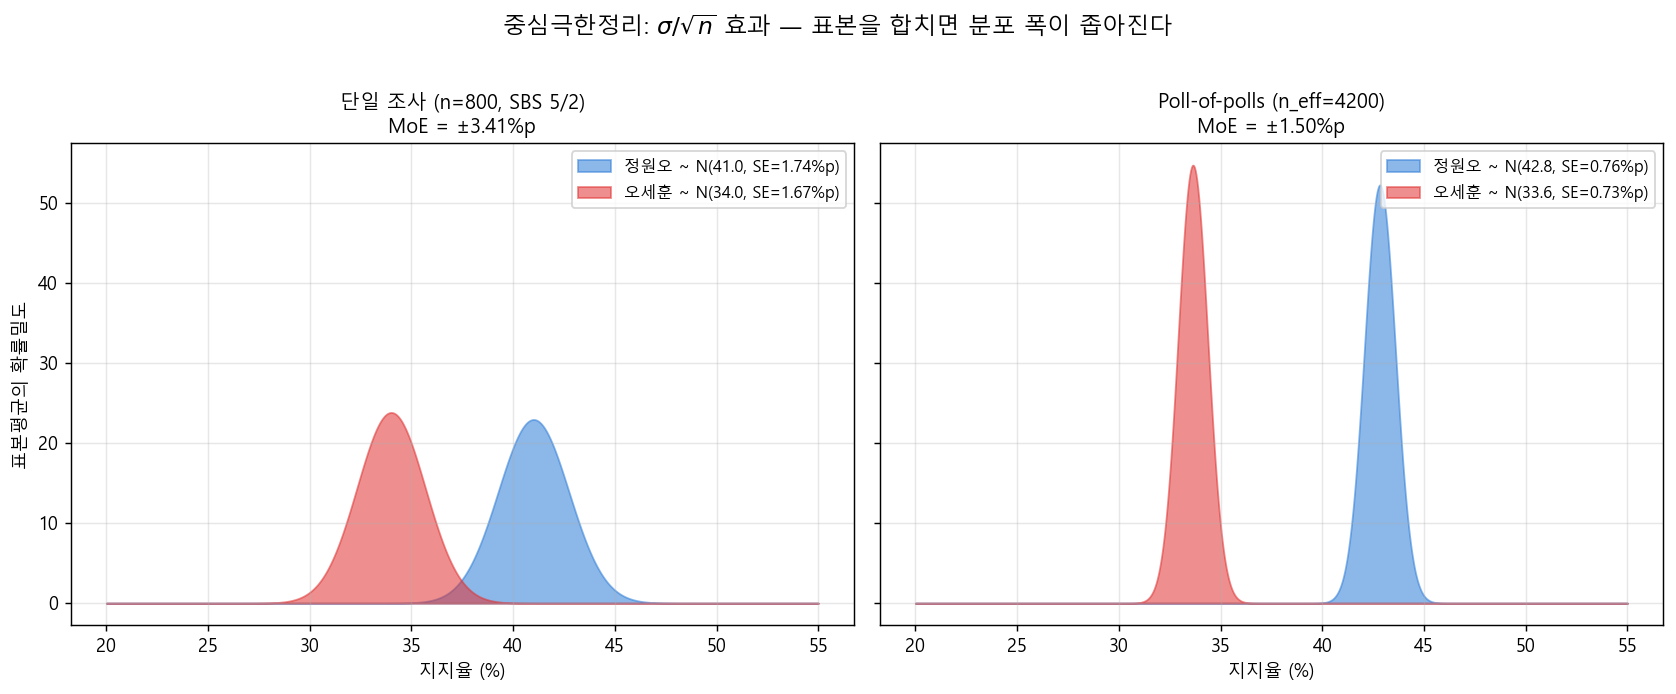
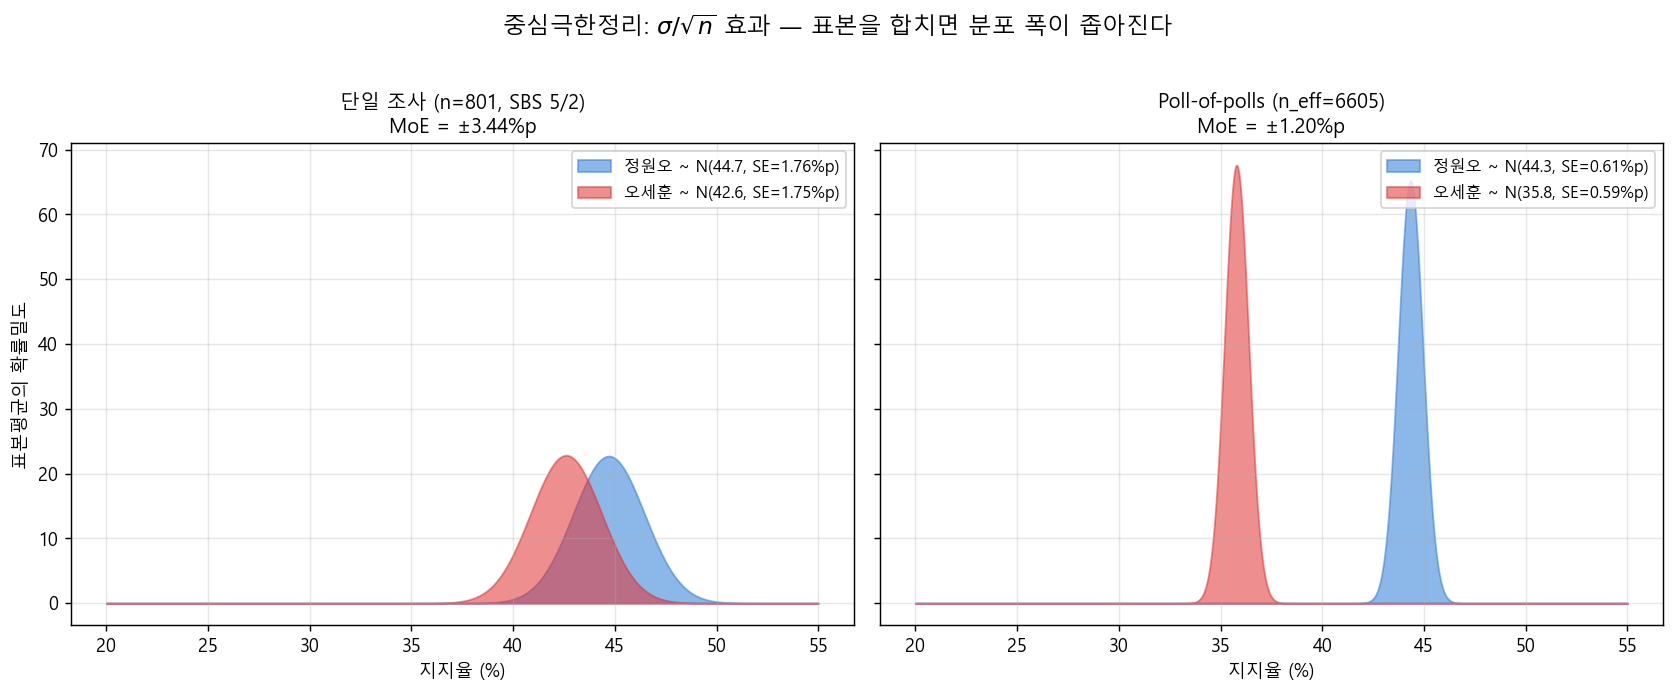
feat: 5월 신규 폴 3건 추가 + 연령대별 분석 섹션
- polls.csv 서울시장 8건으로 확장 (스트레이트뉴스 5/5, 뉴스1 5/10, 펜앤마이크 5/11)
- Poll-of-polls 갱신: n_eff 4,200 → 6,605, Z +6.85 → +7.80, p-value 3.73e-12 → 3.11e-15
- dashboard ⑥ 연령대별 분석 카드 신설: Plotly grouped bar + 두 폴 크로스탭 표
  · 40~60대 정원오 압도(+10~40%p) vs 20·30대·70+ 오세훈 우세 패턴
- 차트 4종 PNG 재생성

diff --git a/dashboard.html b/dashboard.html
@@ -223,6 +223,33 @@
   .blackout-sub { color: #78350f; font-size: 13px; margin-top: 6px; }
   .blackout-sub em { background: rgba(255,255,255,.6); padding: 1px 5px; border-radius: 3px; font-style: normal; }
 
+  /* --- Age breakdown --- */
+  .age-grid { display: grid; grid-template-columns: 1fr 1fr; gap: 18px; margin-bottom: 16px; }
+  @media (max-width: 900px) { .age-grid { grid-template-columns: 1fr; } }
+  .age-source {
+    background: #f9fafb; border: 1px solid var(--border); border-radius: 10px;
+    padding: 14px 16px;
+  }
+  .age-source h3 {
+    margin: 0 0 4px; font-size: 14px; font-weight: 700; color: var(--ink);
+  }
+  .age-source .sub { color: var(--muted); font-size: 12px; margin-bottom: 10px; }
+  .age-table { width: 100%; border-collapse: collapse; font-size: 13px; }
+  .age-table th, .age-table td {
+    padding: 6px 8px; text-align: center; border-bottom: 1px solid #eef0f4;
+  }
+  .age-table th { background: #f3f4f6; font-weight: 600; color: var(--muted); }
+  .age-table td.age-label { text-align: left; font-weight: 600; }
+  .age-table td.win-dem { color: var(--dem); font-weight: 700; }
+  .age-table td.win-pp  { color: var(--pp);  font-weight: 700; }
+  .age-table td.na { color: #cbd5e1; font-style: italic; }
+  .age-insight {
+    background: #fffbeb; border-left: 3px solid #f59e0b;
+    padding: 12px 16px; border-radius: 4px; font-size: 13px;
+    margin-top: 10px; line-height: 1.7;
+  }
+  .age-insight strong { color: #92400e; }
+
   .formula {
     background: #f9fafb; border-left: 3px solid var(--accent);
     padding: 10px 14px; font-family: 'Consolas', 'Courier New', monospace;
@@ -370,9 +397,59 @@
   </div>
 </div>
 
+<!-- 연령대별 분석 -->
+<div class="card" id="age-card">
+  <h2>⑥ 연령대별 지지율 — 세대 분기점 <span class="pdf-tag">서울시장 전용</span></h2>
+  <p class="desc">최근 두 폴(스트레이트뉴스 5/5·펜앤마이크 5/11)의 연령대 크로스탭. <strong>40대 이상 = 정원오 압도, 20·30대 = 오세훈 우세</strong> 의 세대 균열이 일관되게 관측됨. (다른 도시는 원자료 미공개)</p>
+
+  <div id="age-charts" style="margin-bottom: 16px;">
+    <div id="age-chart" style="width:100%; height:380px;"></div>
+  </div>
+
+  <div class="age-grid">
+    <div class="age-source">
+      <h3>스트레이트뉴스 / 조원씨앤아이 (2026-05-05)</h3>
+      <div class="sub">n = 802 · 양자대결 · ARS 100% · 응답률 6.4%</div>
+      <table class="age-table">
+        <thead><tr><th>연령</th><th>정원오</th><th>오세훈</th><th>격차</th></tr></thead>
+        <tbody>
+          <tr><td class="age-label">18~29</td><td>35.8%</td><td class="win-pp">52.6%</td><td>오세훈 +16.8%p</td></tr>
+          <tr><td class="age-label">30대</td>  <td>35.4%</td><td class="win-pp">45.2%</td><td>오세훈 +9.8%p</td></tr>
+          <tr><td class="age-label">40대</td>  <td class="win-dem">66.1%</td><td>27.4%</td><td>정원오 +38.7%p</td></tr>
+          <tr><td class="age-label">50대</td>  <td class="win-dem">63.8%</td><td>22.9%</td><td>정원오 +40.9%p</td></tr>
+          <tr><td class="age-label">60대+</td> <td colspan="3" class="na">미공개</td></tr>
+        </tbody>
+      </table>
+    </div>
+
+    <div class="age-source">
+      <h3>펜앤마이크 / 여론조사공정 (2026-05-11)</h3>
+      <div class="sub">n = 801 · 다자대결 · ARS 100% · 응답률 5.7%</div>
+      <table class="age-table">
+        <thead><tr><th>연령</th><th>정원오</th><th>오세훈</th><th>격차</th></tr></thead>
+        <tbody>
+          <tr><td class="age-label">20대 이하</td><td class="na">미공개</td><td class="win-pp">42.7%</td><td>오세훈 우세</td></tr>
+          <tr><td class="age-label">30대</td>    <td class="na">미공개</td><td class="win-pp">45.3%</td><td>오세훈 우세</td></tr>
+          <tr><td class="age-label">40대</td>    <td class="win-dem">51.1%</td><td>34.1%</td><td>정원오 +17.0%p</td></tr>
+          <tr><td class="age-label">50대</td>    <td class="win-dem">51.5%</td><td>40.5%</td><td>정원오 +11.0%p</td></tr>
+          <tr><td class="age-label">60대</td>    <td class="win-dem">53.6%</td><td>35.8%</td><td>정원오 +17.8%p</td></tr>
+          <tr><td class="age-label">70+</td>     <td>36.0%</td><td class="win-pp">57.8%</td><td>오세훈 +21.8%p</td></tr>
+        </tbody>
+      </table>
+    </div>
+  </div>
+
+  <div class="age-insight">
+    <strong>핵심 패턴:</strong> 두 조사 모두 <strong>40~60대 = 정원오 압도(+10~40%p)</strong>, <strong>20~30대 = 오세훈 우세(+10~17%p)</strong>, <strong>70+ = 오세훈 압승(+21%p)</strong> 의 동일 패턴.
+    서울 인구구조상 40~60대 비중(약 50%)이 20~30대(약 28%)·70+(약 14%) 합보다 커서 통합 결과는 정원오 우세로 수렴.
+    <br><br>
+    <strong>전략적 시사:</strong> 오세훈은 40~60대 결집 + 청년 외 추가 동력 없이는 역전 어려움. 정원오는 청년층 추격이 보너스 — 핵심 지지층(40~60대)이 이미 견고.
+  </div>
+</div>
+
 <!-- 결과 비교 카드 -->
 <div class="card">
-  <h2>⑥ 예측 vs 실제 결과 비교 <span class="pdf-tag">6/3 개표 후</span></h2>
+  <h2>⑦ 예측 vs 실제 결과 비교 <span class="pdf-tag">6/3 개표 후</span></h2>
   <p class="desc">선거 결과가 발표되면 아래에 입력해 예측이 95% 신뢰구간 안에 들어왔는지 자체 검증할 수 있습니다.</p>
   <div id="actual-input">
     <div class="actual-grid">
@@ -397,7 +474,7 @@
 
 <!-- 통계 공식 -->
 <div class="card">
-  <h2>⑥ 사용한 공식 (PDF 핵심 개념)</h2>
+  <h2>⑧ 사용한 공식 (PDF 핵심 개념)</h2>
   <div class="grid-2">
     <div>
       <strong>모비율 95% 신뢰구간 (p44)</strong>
@@ -443,7 +520,7 @@ n_eff = ΣW_i</div>
 
 <!-- 한계 -->
 <div class="card">
-  <h2>⑦ 한계와 변동 요인</h2>
+  <h2>⑨ 한계와 변동 요인</h2>
   <ol>
     <li><strong>2종 오류 (PDF p60)</strong>: 부동층 ≈ 20% 가 막판에 결집하면 결과 변동 가능.</li>
     <li><strong>공표 금지 기간</strong>: 5/28 ~ 6/3 여론조사 공표 금지 → 그 사이 변화 미반영.</li>
@@ -480,13 +557,16 @@ n_eff = ΣW_i</div>
 // 모든 폴은 pOthers (제3후보 합) + pUnd (부동층) 자동 계산.
 // pUnd = 1 - pDem - pPP - pOthers
 const EMBEDDED = {
-  lastUpdated: "2026-05-06T14:14:00+09:00",
+  lastUpdated: "2026-05-13T09:48:00+09:00",
   polls: [
-    {city:"서울시장", date:"2025-12-15", pollster:"코리아리서치",     client:"MBC",       n:800,  candDem:"정원오", pDem:0.340, candPP:"오세훈", pPP:0.360, pOthers:0, pUnd:0.300, method:"전화면접+ARS", responseRate:11.5, sourceUrl:"https://imnews.imbc.com/news/2026/politics/article/6790513_36911.html"},
-    {city:"서울시장", date:"2026-02-10", pollster:"코리아리서치",     client:"MBC",       n:800,  candDem:"정원오", pDem:0.400, candPP:"오세훈", pPP:0.360, pOthers:0, pUnd:0.240, method:"전화면접+ARS", responseRate:11.8, sourceUrl:"https://imnews.imbc.com/news/2026/politics/article/6801176_36911.html"},
-    {city:"서울시장", date:"2026-04-20", pollster:"여론조사공정",     client:"펜앤마이크", n:1000, candDem:"정원오", pDem:0.495, candPP:"오세훈", pPP:0.309, pOthers:0, pUnd:0.196, method:"ARS",         responseRate:8.5,  sourceUrl:"https://www.pennmike.com"},
-    {city:"서울시장", date:"2026-04-28", pollster:"코리아리서치",     client:"MBC",       n:800,  candDem:"정원오", pDem:0.480, candPP:"오세훈", pPP:0.320, pOthers:0, pUnd:0.200, method:"전화면접+ARS", responseRate:12.3, sourceUrl:"https://imnews.imbc.com/news/2026/politics/article/6819190_36911.html"},
-    {city:"서울시장", date:"2026-05-02", pollster:"입소스",          client:"SBS",       n:800,  candDem:"정원오", pDem:0.410, candPP:"오세훈", pPP:0.340, pOthers:0, pUnd:0.250, method:"전화면접",     responseRate:10.7, sourceUrl:"https://sstpnews.com/news/view/1065574220707918"},
+    {city:"서울시장", date:"2025-12-15", pollster:"코리아리서치",     client:"MBC",       n:800,  candDem:"정원오", pDem:0.340, candPP:"오세훈", pPP:0.360, pOthers:0,     pUnd:0.300, method:"전화면접+ARS", responseRate:11.5, sourceUrl:"https://imnews.imbc.com/news/2026/politics/article/6790513_36911.html"},
+    {city:"서울시장", date:"2026-02-10", pollster:"코리아리서치",     client:"MBC",       n:800,  candDem:"정원오", pDem:0.400, candPP:"오세훈", pPP:0.360, pOthers:0,     pUnd:0.240, method:"전화면접+ARS", responseRate:11.8, sourceUrl:"https://imnews.imbc.com/news/2026/politics/article/6801176_36911.html"},
+    {city:"서울시장", date:"2026-04-20", pollster:"여론조사공정",     client:"펜앤마이크", n:1000, candDem:"정원오", pDem:0.495, candPP:"오세훈", pPP:0.309, pOthers:0,     pUnd:0.196, method:"ARS",         responseRate:8.5,  sourceUrl:"https://www.pennmike.com"},
+    {city:"서울시장", date:"2026-04-28", pollster:"코리아리서치",     client:"MBC",       n:800,  candDem:"정원오", pDem:0.480, candPP:"오세훈", pPP:0.320, pOthers:0,     pUnd:0.200, method:"전화면접+ARS", responseRate:12.3, sourceUrl:"https://imnews.imbc.com/news/2026/politics/article/6819190_36911.html"},
+    {city:"서울시장", date:"2026-05-02", pollster:"입소스",          client:"SBS",       n:800,  candDem:"정원오", pDem:0.410, candPP:"오세훈", pPP:0.340, pOthers:0,     pUnd:0.250, method:"전화면접",     responseRate:10.7, sourceUrl:"https://sstpnews.com/news/view/1065574220707918"},
+    {city:"서울시장", date:"2026-05-05", pollster:"조원씨앤아이",     client:"스트레이트뉴스", n:802, candDem:"정원오", pDem:0.502, candPP:"오세훈", pPP:0.380, pOthers:0,     pUnd:0.118, method:"ARS",         responseRate:6.4,  sourceUrl:"https://www.straightnews.co.kr/news/articleView.html?idxno=301726"},
+    {city:"서울시장", date:"2026-05-10", pollster:"한국갤럽",         client:"뉴스1",     n:802,  candDem:"정원오", pDem:0.460, candPP:"오세훈", pPP:0.380, pOthers:0.030, pUnd:0.130, method:"전화면접",     responseRate:11.0, sourceUrl:"https://www.fnnews.com/news/202605130530574567"},
+    {city:"서울시장", date:"2026-05-11", pollster:"여론조사공정",     client:"펜앤마이크", n:801,  candDem:"정원오", pDem:0.447, candPP:"오세훈", pPP:0.426, pOthers:0.037, pUnd:0.090, method:"ARS",         responseRate:5.7,  sourceUrl:"https://www.pennmike.com/news/articleView.html?idxno=120337"},
     {city:"성남시장", date:"2026-02-09", pollster:"한길리서치",       client:"뉴스1",     n:503,  candDem:"김병욱", pDem:0.320, candPP:"신상진", pPP:0.350, pOthers:0, pUnd:0.330, method:"ARS",         responseRate:9.2,  sourceUrl:"https://www.news1.kr/local/gyeonggi/6066685"},
     {city:"성남시장", date:"2026-04-04", pollster:"한국갤럽",         client:"경인일보",   n:503,  candDem:"김병욱", pDem:0.480, candPP:"신상진", pPP:0.330, pOthers:0, pUnd:0.190, method:"전화면접",     responseRate:12.6, sourceUrl:"https://www.kyeongin.com/article/1763058"},
     {city:"성남시장", date:"2026-04-26", pollster:"한길리서치",       client:"인천일보",   n:503,  candDem:"김병욱", pDem:0.436, candPP:"신상진", pPP:0.382, pOthers:0, pUnd:0.182, method:"ARS",         responseRate:9.5,  sourceUrl:"https://v.daum.net/v/20260428060013997"},
@@ -1035,6 +1115,60 @@ function renderTable() {
   });
 }
 
+// ============== 연령대별 분석 ==============
+// 두 폴의 연령 크로스탭 (출처 기사에 공개된 수치만)
+const AGE_DATA = {
+  "서울시장": {
+    ages: ["18~29", "30대", "40대", "50대", "60대", "70+"],
+    sources: [
+      { label: "정원오 (스트레이트뉴스 5/5)",
+        y: [35.8, 35.4, 66.1, 63.8, null, null],
+        color: "#2E7DD7", pattern: "" },
+      { label: "오세훈 (스트레이트뉴스 5/5)",
+        y: [52.6, 45.2, 27.4, 22.9, null, null],
+        color: "#E03131", pattern: "" },
+      { label: "정원오 (펜앤마이크 5/11)",
+        y: [null, null, 51.1, 51.5, 53.6, 36.0],
+        color: "#2E7DD7", pattern: "/" },
+      { label: "오세훈 (펜앤마이크 5/11)",
+        y: [null, null, 34.1, 40.5, 35.8, 57.8],
+        color: "#E03131", pattern: "/" },
+    ],
+  },
+};
+
+function renderAge() {
+  const card = document.getElementById("age-card");
+  const data = AGE_DATA[currentCity];
+  if (!data) {
+    card.style.display = "none";
+    return;
+  }
+  card.style.display = "";
+  const traces = data.sources.map(s => ({
+    x: data.ages, y: s.y, name: s.label, type: "bar",
+    marker: {
+      color: s.color,
+      opacity: s.pattern ? 0.85 : 0.95,
+      pattern: s.pattern ? { shape: s.pattern, solidity: 0.4, fgcolor: s.color, bgcolor: "white" } : undefined,
+      line: { color: s.color, width: 1 },
+    },
+    text: s.y.map(v => v == null ? "" : v.toFixed(1) + "%"),
+    textposition: "outside",
+    hovertemplate: `<b>%{x}</b><br>${s.label}: %{y:.1f}%<extra></extra>`,
+  }));
+  const layout = {
+    barmode: "group",
+    margin: { t: 30, r: 20, b: 70, l: 55 },
+    xaxis: { title: "연령대", gridcolor: "#eef0f4" },
+    yaxis: { title: "지지율 (%)", gridcolor: "#eef0f4", range: [0, 75] },
+    legend: { orientation: "h", x: 0.5, xanchor: "center", y: -0.18 },
+    plot_bgcolor: "white", paper_bgcolor: "white",
+    font: { family: "Malgun Gothic, sans-serif" },
+  };
+  Plotly.newPlot("age-chart", traces, layout, { responsive: true, displaylogo: false });
+}
+
 // ============== 결과 비교 (예측 vs 실제) ==============
 const ACTUAL_KEY = "vote_actual_results_v1";
 
@@ -1137,6 +1271,7 @@ function renderAll() {
   renderCLT();
   renderHypothesis();
   renderTable();
+  renderAge();
   renderActualSection();
 }
 
